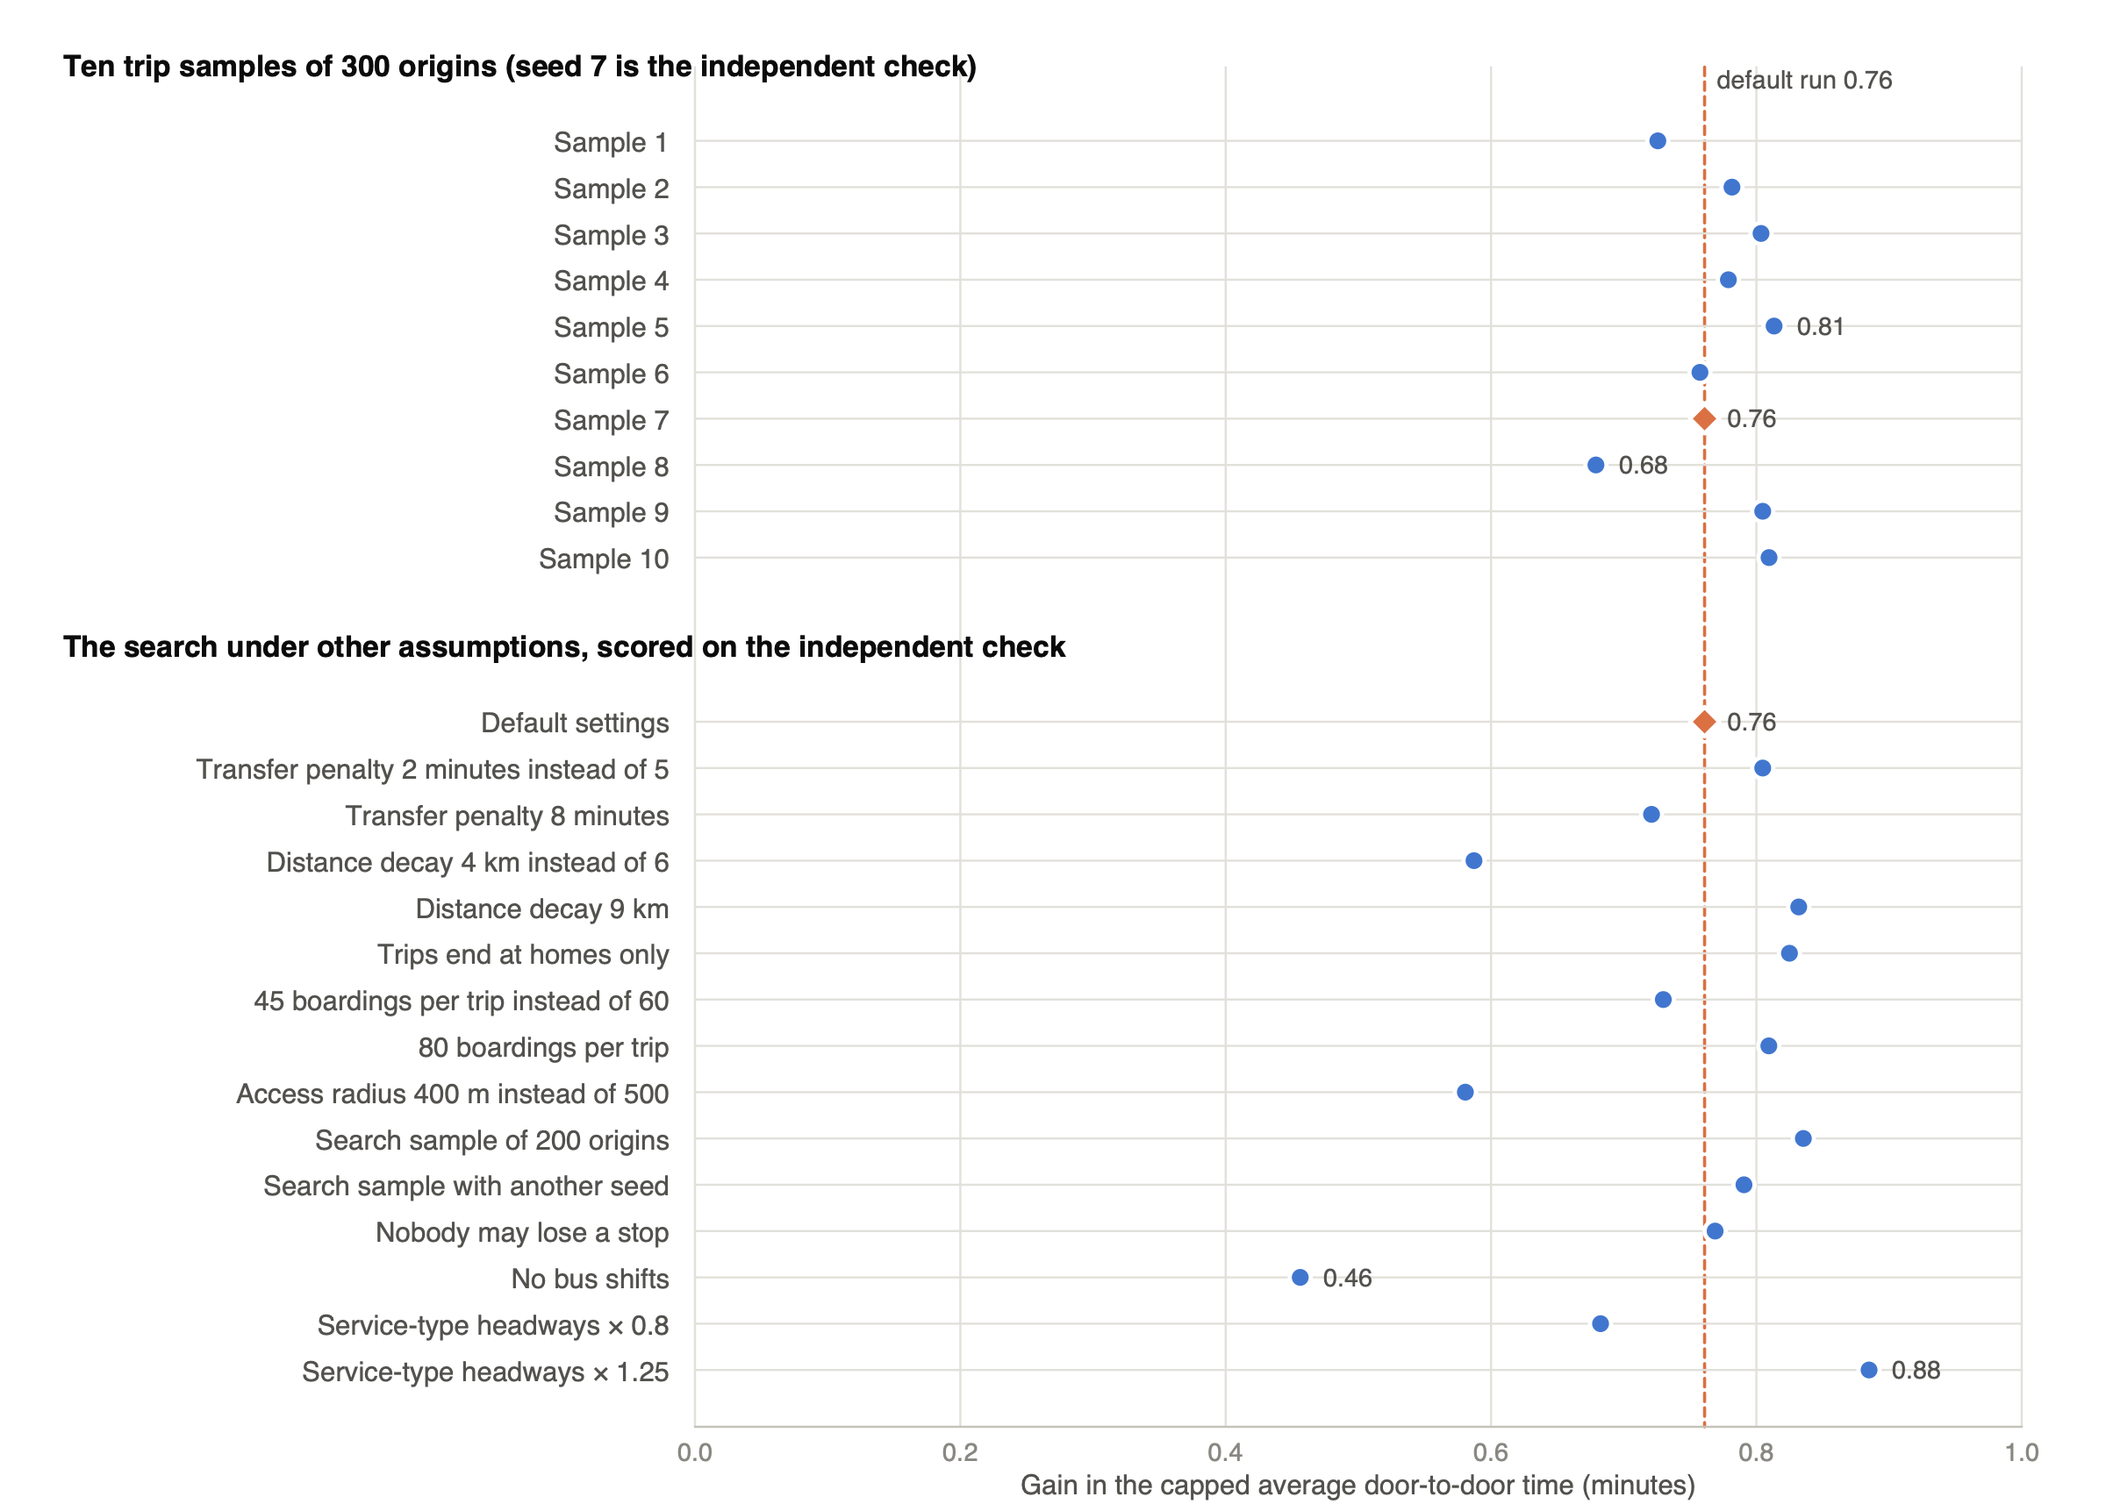
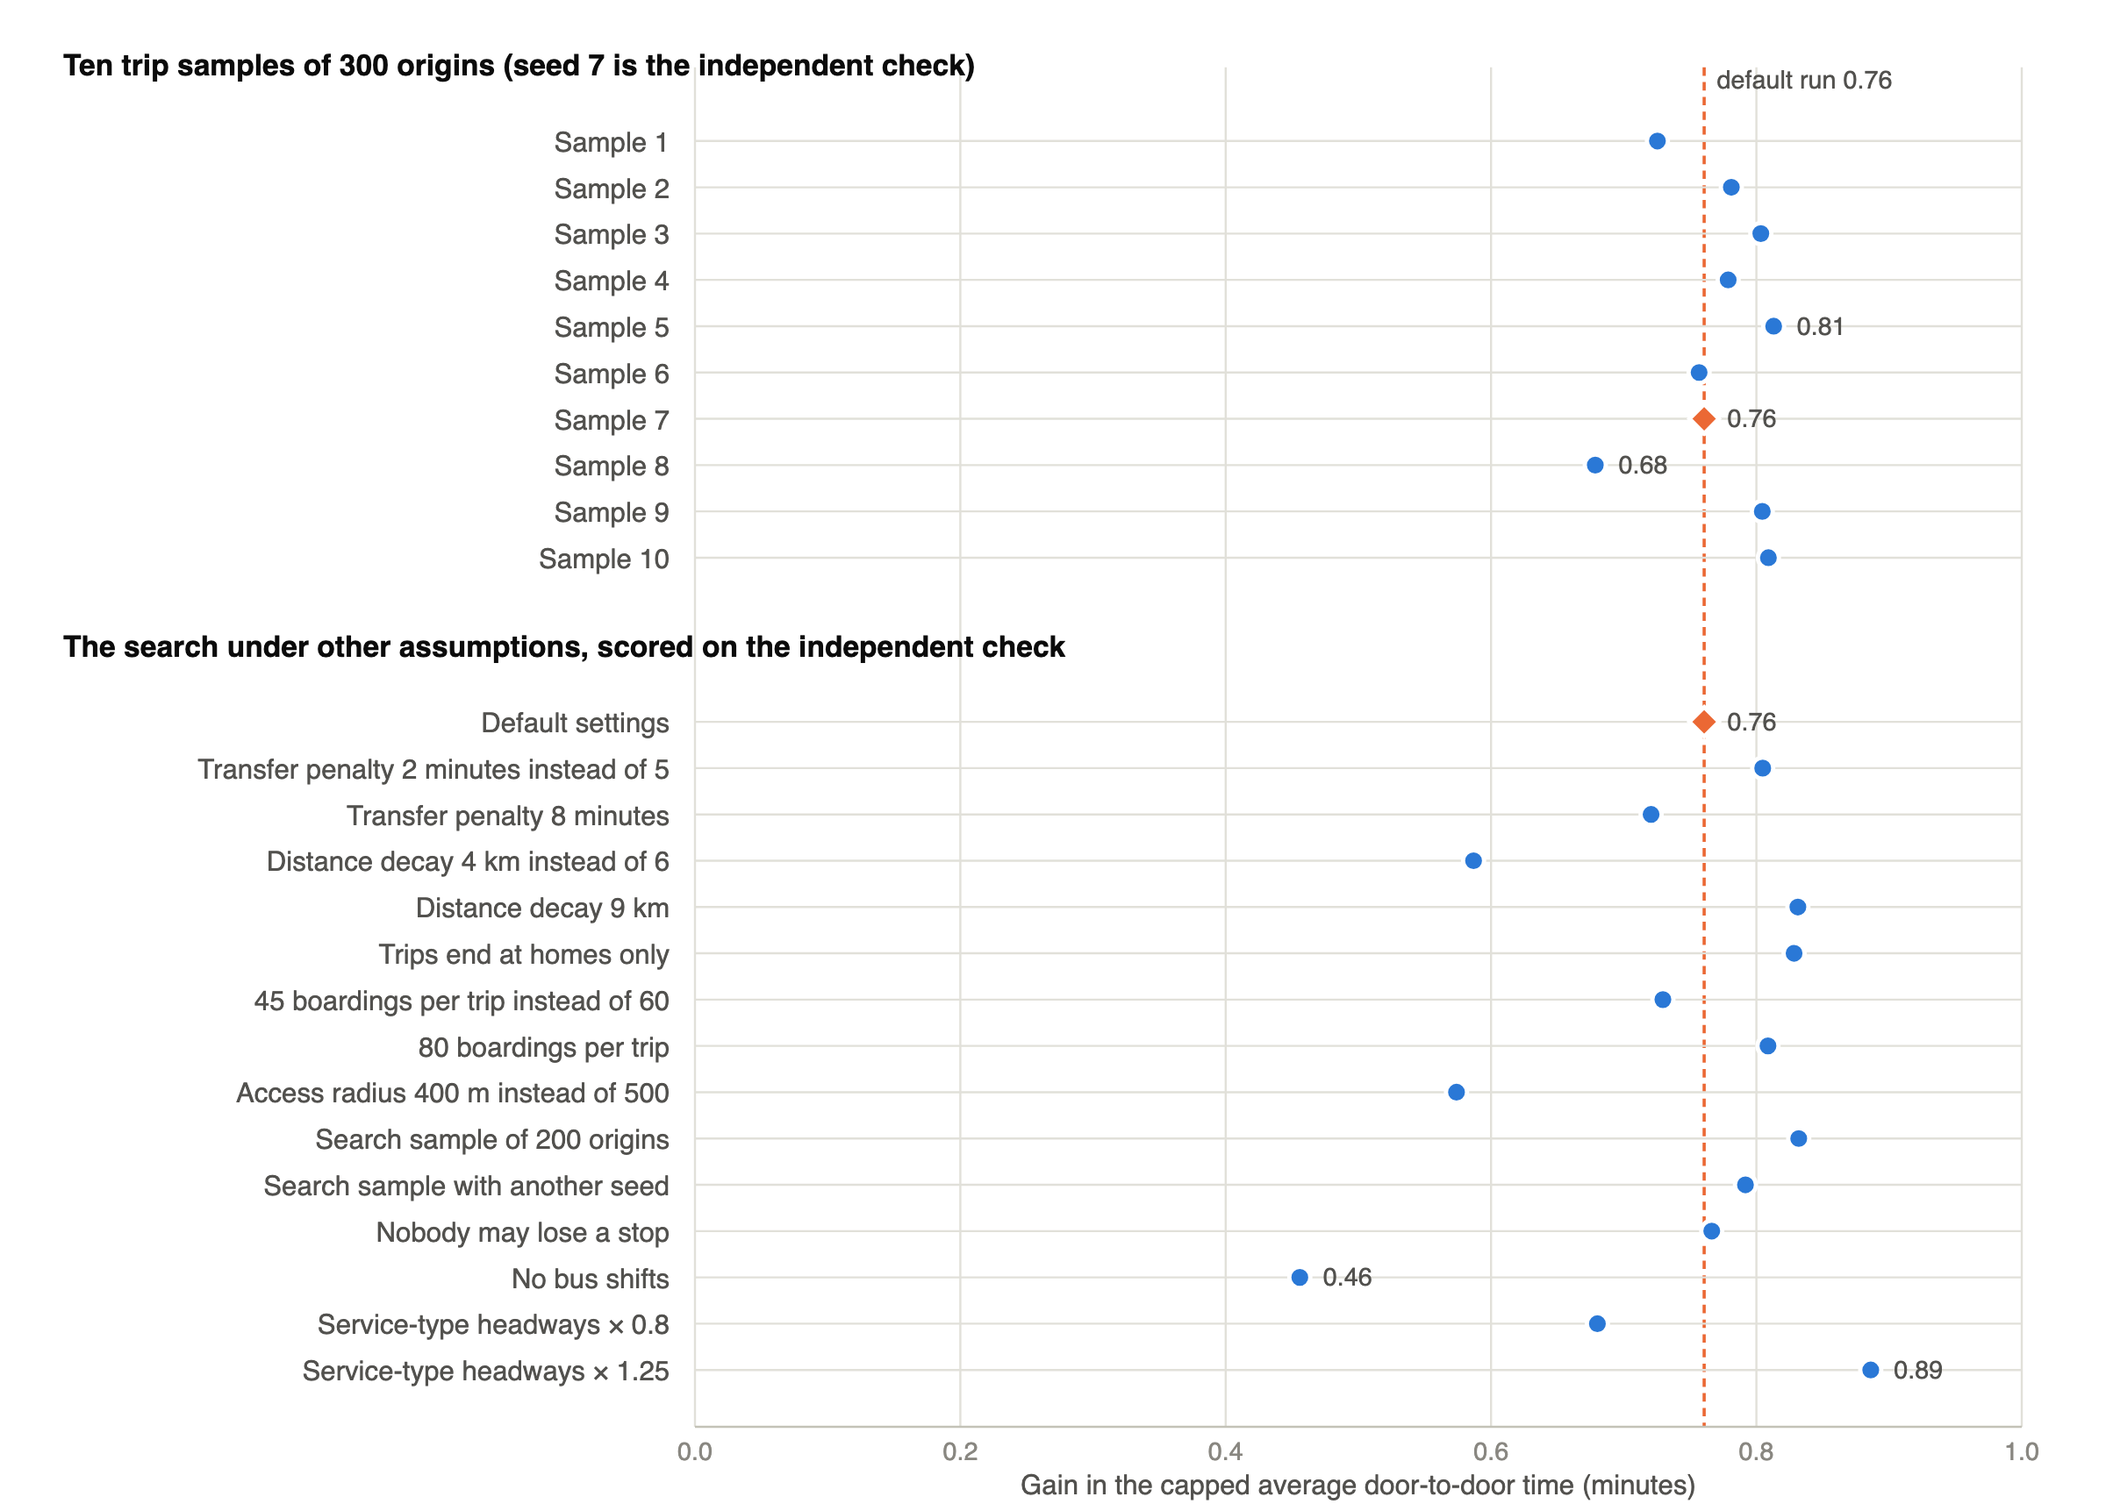
Carry the regenerated figures into the working manuscript, its Figure 4 and the Medium draft
The manuscript in paper/ is the copy the revision will grow from, so it
now quotes the regenerated results: 51.9 to 51.0 minutes over possible
trips, 66.4% of trips possible, 0.46 to 0.89 minutes under the other
assumptions, Table 4's changed rows and route 519's 14,800 estimated
boardings. Figure 4 is redrawn from the new robustness files, and the
Medium draft's two figures follow. paper/submission/ keeps the files as
submitted, and docs/paper.md lists what the revision must change. The
redesign and roadmap pages take route 519's new estimate too.

diff --git a/paper/manuscript.md b/paper/manuscript.md
@@ -23,11 +23,11 @@ ranks routes against observed boardings at a Spearman correlation of 0.58. Only 
 201 routes run within 1.4 times the straight line between their ends, and 66% of the
 3.04 million residents live within 400 m of a stop in a straight line, 45% along mapped
 streets. A greedy search keeping today's fleet and applying changes used by redesigns
-elsewhere shortens the average possible trip from 51.8 to 50.9 minutes (0.76 minutes
+elsewhere shortens the average possible trip from 51.9 to 51.0 minutes (0.76 minutes
 with impossible trips counted at 120), or delivers today's modelled travel times with
 about 12% fewer buses than the estimated headways imply. On 10 independent trip samples
 the gain counted that way is 0.68 to 0.81 minutes, and under 14 alternative assumptions
-0.46 to 0.88, the smallest without bus shifts; a stricter rule that strands nobody gains
+0.46 to 0.89, the smallest without bus shifts; a stricter rule that strands nobody gains
 as much as the default. The pipeline, data and results are released to regenerate or,
 with a reader for another map format, apply to other cities publishing only a map.
 
@@ -442,11 +442,11 @@ people within 1,000 m of a stop in a straight line, the walk to the nearest stop
 typically 1.54 times the line (the population-weighted median; a quarter walk more than
 twice the line), and for 80% of them more than the 1.3 the travel model assumes, so the
 straight-line shares are upper bounds on access and the model's walks are too short.
-Door to door, on 300 origins sampled by population, the average possible trip takes 51.8
+Door to door, on 300 origins sampled by population, the average possible trip takes 51.9
 minutes; 16.2% of trips can be made within 30 minutes, 29.4% within 45, 42.2% within 60
-and 66.3% within 120; 34.6% of trips have no stop within 500 m at one end or both; the
+and 66.4% within 120; 34.6% of trips have no stop within 500 m at one end or both; the
 average trip is 8.0 km in a straight line. Of the possible trips, 11.4% are walked,
-28.9% need no change, 43.2% one, 15.0% two and 1.5% three or more.
+28.8% need no change, 43.1% one, 15.1% two and 1.5% three or more.
 
 ### 5.3 Daily service and how far the model can be trusted
 
@@ -471,8 +471,8 @@ Stop balancing alone, removing stops closer than 250 m to a neighbour on every r
 that uses them while keeping terminals and hubs and never leaving a gap over 700 m,
 removes 351 stops: the median gap rises from 420 to 473 m, the share of people within
 400 m of a stop falls by 0.15 points, 28 fewer buses are needed at today's headways,
-bus-hours fall 1.5% and fuel 1.7%, and the average door-to-door trip shortens from 51.8
-to 51.6 minutes.
+bus-hours fall 1.5% and fuel 1.7%, and the average door-to-door trip shortens from 51.9
+to 51.7 minutes.
 
 ### 5.5 The redesign
 
@@ -507,14 +507,14 @@ Table 3. Today's network and the redesign on the independent check (300 origins)
 | Median stop gap (m) | 420 | 470 |
 | People within 400 m of a stop | 65.96% | 65.80% |
 | People left without a stop within 500 m | 0 | 976 |
-| Average door-to-door time, possible trips (min) | 51.82 | 50.86 |
+| Average door-to-door time, possible trips (min) | 51.93 | 50.96 |
 | Capped average door-to-door time, impossible trips as 120 (min) | 74.82 | 74.06 |
 | Trips possible within 45 minutes | 29.4% | 30.3% |
-| Trips possible within 120 minutes | 66.3% | 66.4% |
-| Possible trips with two or more changes | 16.5% | 17.4% |
+| Trips possible within 120 minutes | 66.4% | 66.5% |
+| Possible trips with two or more changes | 16.6% | 17.5% |
 | Trips a day | 33,363 | 34,418 |
 | Bus-hours a day | 28,327 | 28,327 |
-| Bus-kilometres a day | 588,994 | 596,868 |
+| Bus-kilometres a day | 588,994 | 596,869 |
 | Fuel a day (diesel-equivalent litres) | 226,592 | 226,708 |
 
 The improvement can instead be taken as a smaller fleet. With 88.3% of the redesigned
@@ -533,17 +533,17 @@ gain in the capped average is 0.68 to 0.81 minutes, mean 0.77 with a standard de
 of 0.04, and positive in every sample (Figure 4); the level itself moves by about 4
 minutes between samples, so the gain should be quoted with its range and the level not
 to two decimals. Under the 14 changed settings (Table 4) the capped gain stays between
-0.46 and 0.88 minutes and today's travel times need 87 to 93% of the buses in every run
-(7 to 13% less fuel). It is smallest without the bus shifts: the 23 structural changes
+0.46 and 0.89 minutes and today's travel times need 86 to 93% of the buses in every run
+(7 to 14% less fuel). It is smallest without the bus shifts: the 23 structural changes
 alone gain 0.46 minutes, three fifths of the default run's 0.76, and give today's travel
 times with 93% of the buses, so the shifts add the remaining 0.30 minutes and 5 points
 of fleet. Among the runs with shifts it is smallest with shorter trips or a shorter
 access radius and largest with the service-type headways scaled by 1.25 or a larger
 search sample; scaling that table, which sets 145 of the 201 headways, by 0.8 or 1.25
-leaves the gain at 0.68 and 0.88 minutes and the fleet share at 88%. What the search
+leaves the gain at 0.68 and 0.89 minutes and the fleet share at 88%. What the search
 keeps is also stable: two to four drops, 12 to 17 straightened detours, one
 stop-balancing pass and, where allowed, four shifts in every run, and five merges in 12
-of the 15. A larger or a different search sample keeps 32 or 33 changes instead of 27
+of the 15. A larger or a different search sample keeps 32 changes instead of 27
 with the same gain on the independent check, so the sample decides the changes at the
 margin, not the effect.
 
@@ -561,23 +561,23 @@ independent check and the share of the fleet that gives today's travel times.
 | Transfer penalty 8 minutes | 26 | 0.72 | 88% |
 | Distance decay 4 km instead of 6 | 27 | 0.59 | 90% |
 | Distance decay 9 km | 26 | 0.83 | 88% |
-| Trips end at homes only | 25 | 0.82 | 87% |
+| Trips end at homes only | 25 | 0.83 | 86% |
 | 45 boardings per trip instead of 60 | 25 | 0.73 | 88% |
 | 80 boardings per trip | 26 | 0.81 | 88% |
-| Access radius of 400 m instead of 500 | 24 | 0.58 | 90% |
-| Search sample of 200 origins | 32 | 0.84 | 87% |
-| Search sample with another seed | 33 | 0.79 | 88% |
+| Access radius of 400 m instead of 500 | 24 | 0.57 | 90% |
+| Search sample of 200 origins | 32 | 0.83 | 87% |
+| Search sample with another seed | 32 | 0.79 | 88% |
 | Nobody may lose a stop | 24 | 0.77 | 88% |
 | No bus shifts | 23 | 0.46 | 93% |
 | Service-type headways scaled by 0.8 | 26 | 0.68 | 88% |
-| Service-type headways scaled by 1.25 | 28 | 0.88 | 88% |
+| Service-type headways scaled by 1.25 | 28 | 0.89 | 88% |
 
 ### 5.7 Changes that rest on thin evidence
 
 Several kept changes rest on estimates alone. Route 519, a 2.1 km shuttle with three
-stops and no counts, is credited by the model with 14,700 boardings a day and raised
+stops and no counts, is credited by the model with 14,800 boardings a day and raised
 from every 15 minutes to every 3. The three dropped routes have little evidence behind
-them: 164 and 39 have no counts and estimated boardings of 133 and 582 a day, and 150E
+them: 164 and 39 have no counts and estimated boardings of 133 and 581 a day, and 150E
 recorded 16.5 boardings a weekday. Six routes without counts (131, 197, 198, 550, 551,
 554) go from every 15 to every 30 minutes on estimates alone, and two more (54 and 50)
 from every 10 to about every 24. Each straightened stretch follows links that buses

diff --git a/paper/post/medium-post.md b/paper/post/medium-post.md
@@ -24,7 +24,7 @@ Detours are common and mostly unnecessary. There are 271 of them, adding 939 km 
 
 ## 2. Who the network reaches, and how honest the model is
 
-Two thirds of the 3.04 million people in the area live within 400 m of a served stop; 91.5% within 1 km. A door-to-door travel model, built from the same public data with a gravity model for where people go, gives an average trip of 51.8 minutes, with 29% of trips possible within 45 minutes and 35% of trips having no stop within 500 m at one end or the other.
+Two thirds of the 3.04 million people in the area live within 400 m of a served stop; 91.5% within 1 km. A door-to-door travel model, built from the same public data with a gravity model for where people go, gives an average trip of 51.9 minutes, with 29% of trips possible within 45 minutes and 35% of trips having no stop within 500 m at one end or the other.
 
 How much can such a model be trusted? I checked its ranking of routes against the observed boardings of the 56 BakuBus routes that have counts. The Spearman correlation is 0.58: it ranks routes moderately well, no better. The paper says so rather than hiding it, and the redesign uses real counts wherever they exist for exactly that reason.
 
@@ -32,7 +32,7 @@ How much can such a model be trusted? I checked its ranking of routes against th
 
 I then ran a cautious search that applies the changes other cities' redesigns have used, merging near-duplicate routes, dropping lightly used ones, straightening detours, thinning closely spaced stops and moving buses to where they save riders the most waiting, while keeping today's fleet and never leaving more than a few hundred people without a stop. It keeps 27 changes. On trips it was not tuned to, the average trip shortens by about a minute; or, taken the other way, today's travel times can be delivered with about 12% fewer buses, bus-hours and fuel.
 
-A minute is small, so I tested how far it depends on luck and assumptions. On 10 independent trip samples the gain is 0.68 to 0.81 minutes, and under 14 alternative assumptions, from different transfer penalties to different headways for the routes without counts, it stays between 0.46 and 0.88. The smallest gain is the run without the least certain kind of change, the bus moves: the structural changes alone keep three fifths of the gain. And a stricter rule under which nobody at all loses a stop gains as much as the default run, so the 976 people the default run strands buy nothing.
+A minute is small, so I tested how far it depends on luck and assumptions. On 10 independent trip samples the gain is 0.68 to 0.81 minutes, and under 14 alternative assumptions, from different transfer penalties to different headways for the routes without counts, it stays between 0.46 and 0.89. The smallest gain is the run without the least certain kind of change, the bus moves: the structural changes alone keep three fifths of the gain. And a stricter rule under which nobody at all loses a stop gains as much as the default run, so the 976 people the default run strands buy nothing.
 
 ![Gain of the redesign on ten trip samples and under fourteen alternative assumptions](figure-4.png)
 

diff --git a/docs/paper.md b/docs/paper.md
@@ -17,7 +17,7 @@ are publishable: the repaired network and its measured diagnosis
 ([results.md](results.md#todays-network)); the door-to-door travel model built only
 from public data, with its fit against observed ridership stated honestly (0.58 fair,
 0.77 circular; [fit ladder](results.md#the-demand-model-as-each-input-is-added)); the
-redesign, 51.8 → 50.9 minutes with the same buses or today's travel times with about
+redesign, 51.9 → 51.0 minutes with the same buses or today's travel times with about
 12% fewer buses, robust over ten trip samples and eleven alternative assumptions
 ([robustness](results.md#how-robust-the-results-are)), including the finding that the
 strict coverage guard costs nothing; and the pipeline itself, with every input
@@ -351,7 +351,17 @@ point.
    (2025) under the title of another paper of theirs (arXiv:2403.07917); the paper at
    that DOI is "Learning heuristics for transit network design and improvement with
    deep reinforcement learning", as `paper/manuscript.md` now has it (found 30 October
-   2026; the numbers taken from its Table 3 were always from the right paper).
+   2026; the numbers taken from its Table 3 were always from the right paper). A second
+   waits as well. On 22 November 2026 the journey search turned out to stop at the
+   two-hour limit before taking off the first boarding's transfer penalty, so trips just
+   inside the limit counted as impossible. Regenerated, 66.4% of trips are possible
+   rather than 66.3%, the average possible trip is 51.9 minutes rather than 51.8, and
+   the redesign takes it from 51.9 to 51.0 minutes rather than from 51.8 to 50.9; under
+   the other assumptions the gain reaches 0.89 minutes rather than 0.88. The gain
+   counting impossible trips at 120 minutes (0.76), the fleet saving (219 buses, 88%),
+   the range over ten samples (0.68 to 0.81) and the fair fit (0.58 on one sample, 0.53
+   over five) stay as submitted. `paper/manuscript.md`, Figure 4 and the Medium draft
+   carry the new figures; `paper/submission/` keeps the submitted ones.
 8. After acceptance: add the reference to the preprint, update `CITATION.cff` with
    `preferred-citation`, make a new release if anything changed, add the paper to ORCID,
    and name the Mobility Database listing of today's feed (mdb-3629) in Section 6.5 and

diff --git a/docs/redesign.md b/docs/redesign.md
@@ -144,7 +144,7 @@ The inputs are what they are: headways are estimates, the demand model matches o
 ridership only moderately (0.58), and there is no crowding. For the 145 routes without
 counts, riders are estimates and can be far off, so the estimate behind every dropped
 route and every route that gains or loses many buses deserves a look; in the latest
-result, route 519, a 3-stop shuttle the model credits with 14,700 boardings a day, goes
+result, route 519, a 3-stop shuttle the model credits with 14,800 boardings a day, goes
 from every 15 to every 3 minutes. When local knowledge says a route must not be changed,
 add it to `redesign_protected_routes` and run the search again: a protected route is
 never merged, dropped or straightened, keeps its stops and never gives up buses, but it

diff --git a/docs/roadmap.md b/docs/roadmap.md
@@ -8,7 +8,7 @@ about what is missing, not what has been built.
 The weakest part of the work is demand. The gravity model ranks routes against the
 BakuBus counts at only 0.58, and 145 of the 201 routes have no counts at all, so the
 redesign's bus moves rest on estimates. Route 519 is the warning sign: a 3-stop shuttle
-that the model credits with 14,700 boardings a day and that the search therefore runs
+that the model credits with 14,800 boardings a day and that the search therefore runs
 every 3 minutes. Nothing I can do with public data fixes this, and the data that would
 (real headways, boardings for the other carriers' routes, BakıKart validations) cannot
 be obtained from AYNA, so the estimates are what the work has to live with and the
